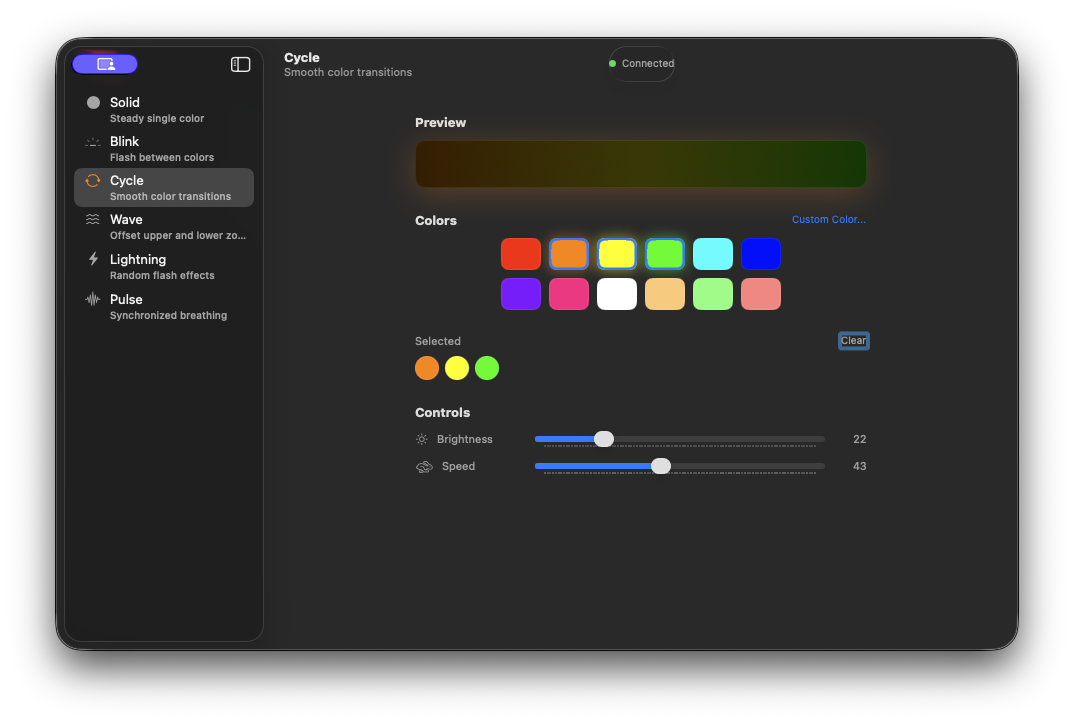
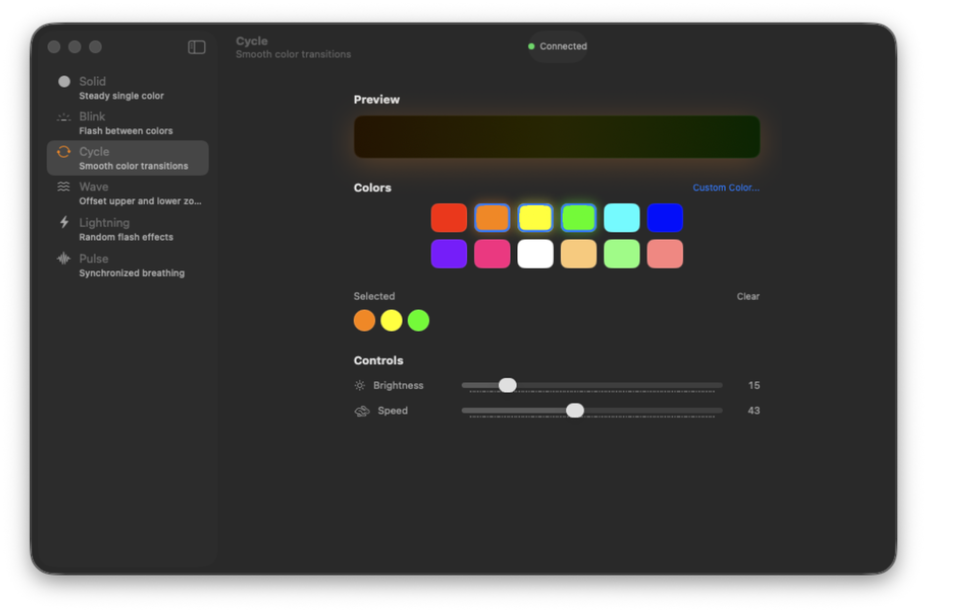
Add the latest app screenshot to the README

diff --git a/README.md b/README.md
@@ -7,6 +7,8 @@ Control HyperX microphone lighting from macOS or the command line.
 The **macOS menu bar app controls the QuadCast 2S**. It has six lighting modes,
 upper/lower lighting zones, a ten-color palette, brightness and animation controls,
 and optional launch at login. Its interface uses native macOS Liquid Glass.
+
+![QuadCast RGB settings](docs/screenshot.png)
 The C CLI retains support for QuadCast S and DuoCast; QuadCast 2S uses hidapi on macOS.
 
 ## macOS app
